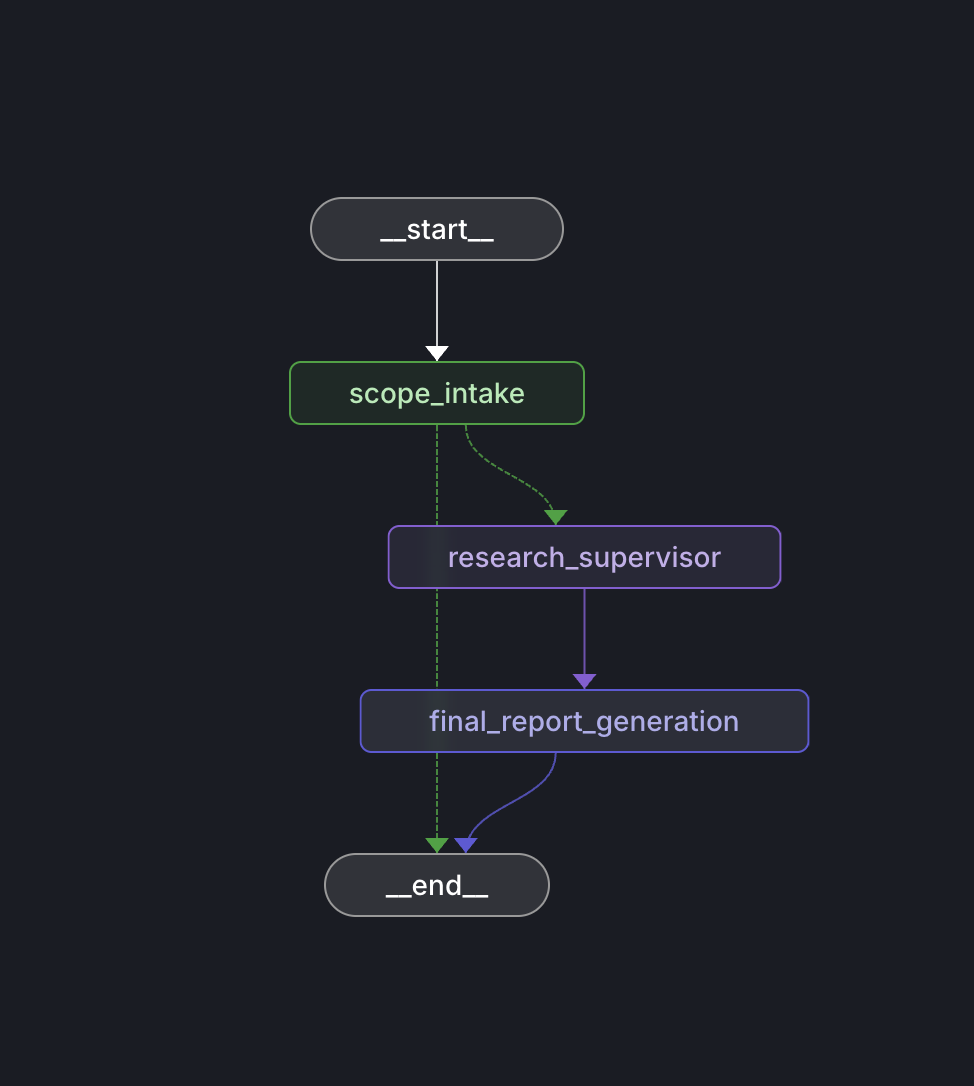
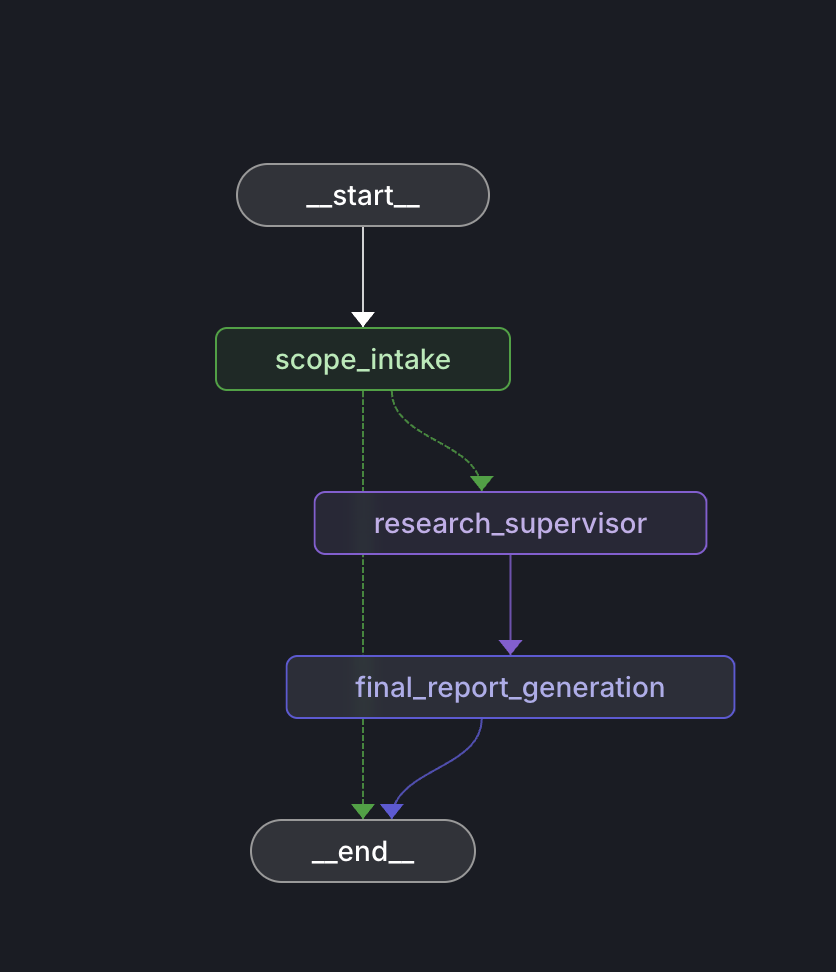
Update architecture graph screenshot

diff --git a/README.md b/README.md
@@ -2,6 +2,8 @@
 
 LangGraph multi-agent system that clarifies scope when needed, runs focused web research in parallel, and synthesizes a cited answer. One canonical runtime path: `scope_intake -> research_supervisor -> final_report_generation`.
 
+![Architecture Graph](docs/architecture.png)
+
 ## Prerequisites
 
 - Python 3.11+
